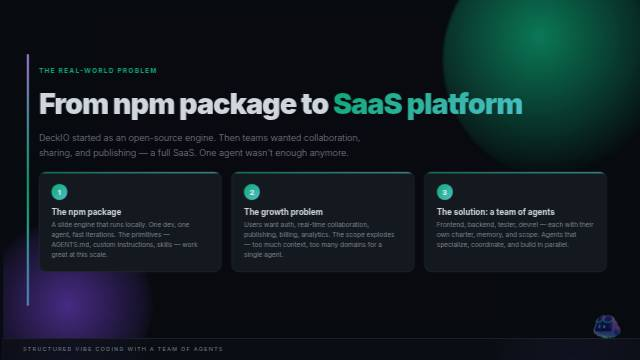
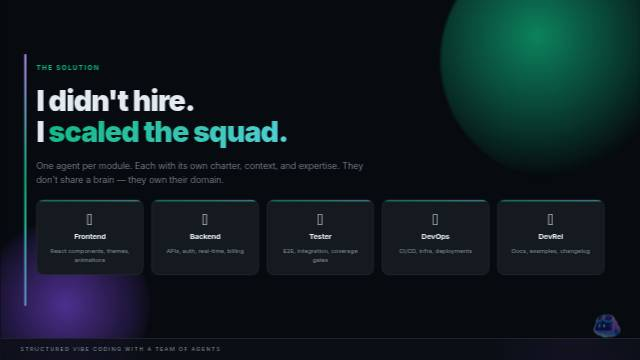
Auto-save from DECKIO — 2026-04-08T12:51

Changed region(s): [[0.0, 0.1528, 0.9375, 0.8556], [0.0312, 0.9472, 0.3438, 0.9778], [0.6875, 0.0306, 0.7188, 0.0917]]

diff --git a/src/slides/SquadSlide.jsx b/src/slides/SquadSlide.jsx
@@ -1,6 +1,14 @@
 import { BottomBar, Slide } from '@deckio/deck-engine'
 import styles from './SquadSlide.module.css'
 
+const agents = [
+  { icon: '🎨', name: 'Frontend', scope: 'React components, themes, animations' },
+  { icon: '⚙', name: 'Backend', scope: 'APIs, auth, real-time, billing' },
+  { icon: '🧪', name: 'Tester', scope: 'E2E, integration, coverage gates' },
+  { icon: '🚀', name: 'DevOps', scope: 'CI/CD, infra, deployments' },
+  { icon: '📣', name: 'DevRel', scope: 'Docs, examples, changelog' },
+]
+
 export default function SquadSlide({ index, project }) {
   return (
     <Slide index={index} className={styles.slide}>
@@ -9,36 +17,24 @@ export default function SquadSlide({ index, project }) {
       <div className={`orb ${styles.orb2}`} />
 
       <div className={`${styles.body} content-frame content-gutter`}>
-        <p className={styles.eyebrow}>The Real-World Problem</p>
+        <p className={styles.eyebrow}>The Solution</p>
         <h1>
-          From npm package to <span className={styles.highlight}>SaaS platform</span>
+          I didn't hire.<br />
+          I <span className={styles.highlight}>scaled the squad.</span>
         </h1>
         <p className={styles.subtitle}>
-          DECKIO started as an open-source engine. Then teams wanted collaboration, sharing, and publishing — a full SaaS. One agent wasn't enough anymore.
+          One agent per module. Each with its own charter, context, and expertise.
+          They don't share a brain — they own their domain.
         </p>
 
-        <div className={styles.cards}>
-          <div className={styles.card}>
-            <div className={styles.cardNumber}>1</div>
-            <div>
-              <h3>The npm package</h3>
-              <p>A slide engine that runs locally. One dev, one agent, fast iterations. The primitives — AGENTS.md, custom instructions, skills — work great at this scale.</p>
+        <div className={styles.agents}>
+          {agents.map((a) => (
+            <div key={a.name} className={styles.agentCard}>
+              <span className={styles.agentIcon}>{a.icon}</span>
+              <h3>{a.name}</h3>
+              <p>{a.scope}</p>
             </div>
-          </div>
-          <div className={styles.card}>
-            <div className={styles.cardNumber}>2</div>
-            <div>
-              <h3>The growth problem</h3>
-              <p>Users want auth, real-time collaboration, publishing, billing, analytics. The scope explodes — too much context, too many domains for a single agent.</p>
-            </div>
-          </div>
-          <div className={styles.card}>
-            <div className={styles.cardNumber}>3</div>
-            <div>
-              <h3>The solution: a team of agents</h3>
-              <p>Frontend, backend, tester, devrel — each with their own charter, memory, and scope. Agents that specialize, coordinate, and build in parallel.</p>
-            </div>
-          </div>
+          ))}
         </div>
       </div>
 

diff --git a/src/slides/SquadSlide.module.css b/src/slides/SquadSlide.module.css
@@ -68,25 +68,28 @@
   max-width: 700px;
 }
 
-.cards {
-  display: grid;
-  grid-template-columns: repeat(3, 1fr);
-  gap: 20px;
+.agents {
+  display: flex;
+  gap: 16px;
 }
 
-.card {
+.agentCard {
+  flex: 1;
   position: relative;
   overflow: hidden;
   background: var(--secondary);
   border: 1px solid var(--border);
   border-radius: 14px;
-  padding: 24px;
+  padding: 22px 18px;
   display: flex;
   flex-direction: column;
-  gap: 12px;
+  align-items: center;
+  text-align: center;
+  gap: 8px;
+  transition: border-color 0.2s;
 }
 
-.card::before {
+.agentCard::before {
   content: '';
   position: absolute;
   top: 0;
@@ -94,32 +97,23 @@
   right: 0;
   height: 3px;
   background: linear-gradient(90deg, var(--accent), var(--cyan));
-  opacity: 0.6;
+  opacity: 0.5;
 }
 
-.cardNumber {
-  width: 32px;
-  height: 32px;
-  border-radius: 50%;
-  background: linear-gradient(135deg, var(--accent), var(--cyan));
-  display: flex;
-  align-items: center;
-  justify-content: center;
+.agentIcon {
+  font-size: 32px;
+  line-height: 1;
+}
+
+.agentCard h3 {
   font-size: 15px;
-  font-weight: 800;
-  color: white;
-  flex-shrink: 0;
-}
-
-.card h3 {
-  font-size: 16px;
   font-weight: 700;
   color: var(--foreground);
-  margin-bottom: 2px;
+  letter-spacing: -0.3px;
 }
 
-.card p {
-  font-size: 13px;
+.agentCard p {
+  font-size: 12px;
   color: var(--muted-foreground);
-  line-height: 1.55;
+  line-height: 1.45;
 }
